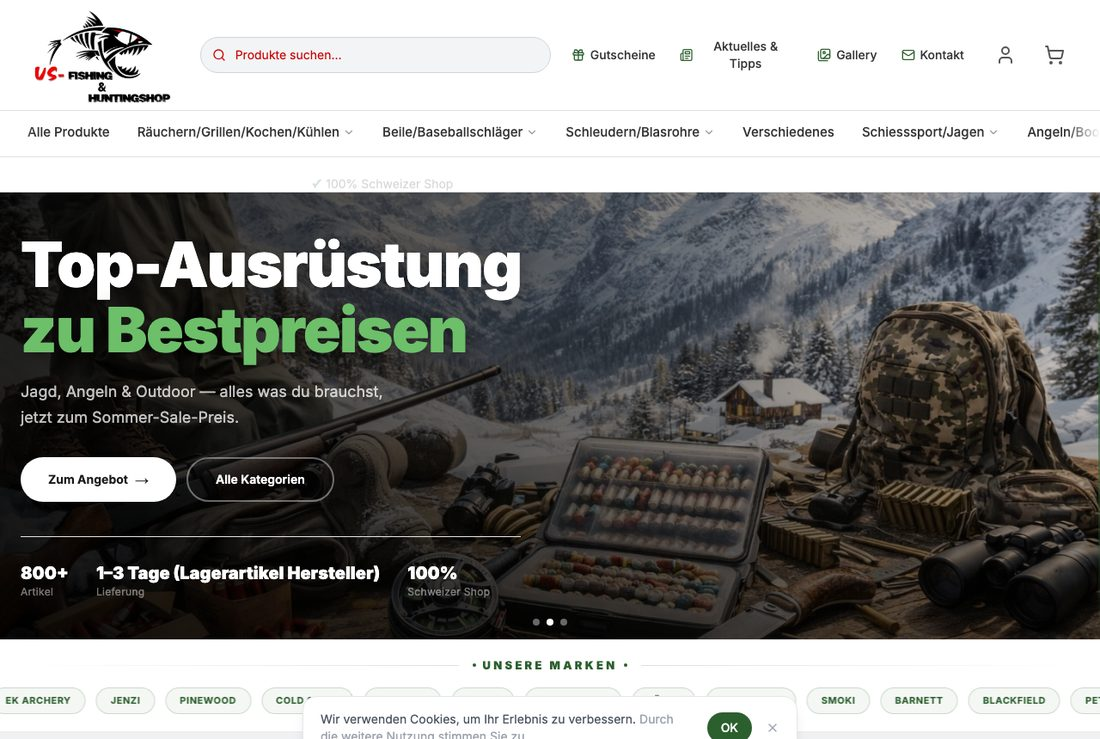
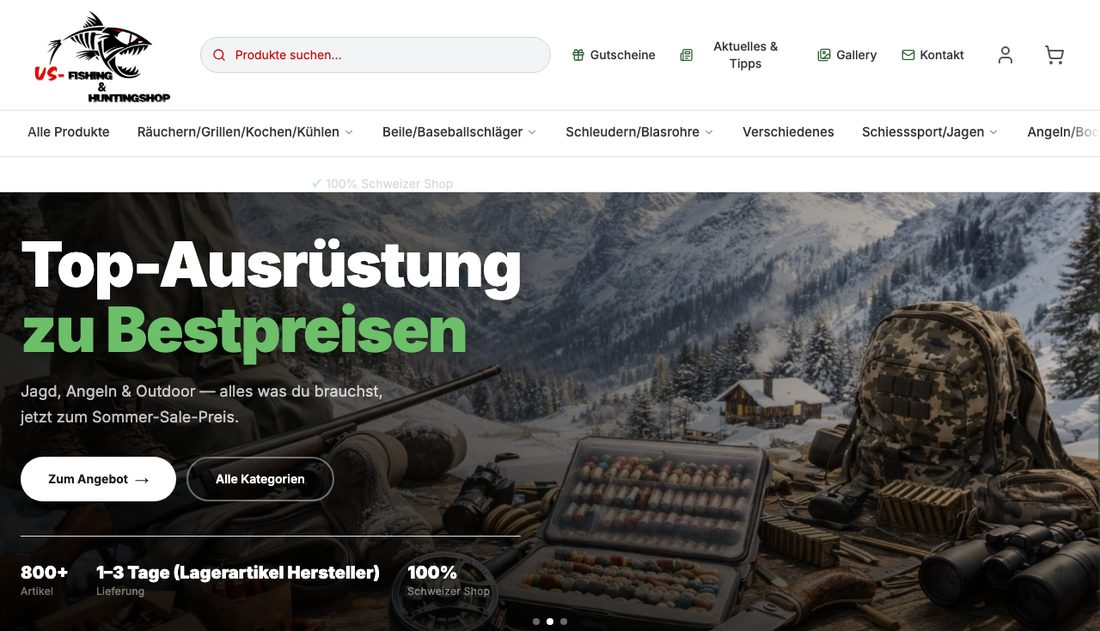
Antes y despues, con la Cantina
La web del restaurante en 2017 al lado de la de hoy: misma casa, mismo
lema, y la vieja media 1050 px — en el movil habia que hacer zoom. Es el
bloque que mas convence a quien llega desde un correo diciendole que su
web es de otra epoca, porque es una prueba y no una promesa.

La vista antigua sale del archivo de internet y se dice debajo, junto
con que alli no se conservan todas las fotos de entonces.

El caso de Urs queda dentro del mismo bloque pero escondido («oculto»)
hasta que el lo apruebe.

Claude-Session: https://claude.ai/code/session_01XynzHpEQP5dsWJy2TRCijA

diff --git a/js/translations.js b/js/translations.js
@@ -1,5 +1,8 @@
 var translations = {
     de: {
+        'vn.desc2': 'Cantina Tex-Mex in Bad Ragaz: links die Website von 2017, rechts dieselbe Cantina heute. Gleiches Restaurant, gleicher Slogan — nur dass die neue Seite auch auf dem Handy funktioniert, und genau dort suchen die Leute ein Restaurant.',
+        'vn.before2': '2017',
+        'vn.note2': 'Die alte Seite war 1050 Pixel breit — auf dem Handy musste man zoomen und seitlich schieben. Der Spruch von damals, «Lust auf Tex-Mex?», steht heute gross über dem Foto des Lokals. Alte Ansicht aus dem Internet-Archiv; einzelne Bilder von damals sind dort nicht erhalten.',
         'vn.eyebrow': 'Vorher / Nachher',
         'vn.title': 'Dieselbe Firma, dieselbe Adresse — <span style="color:var(--begonia400)">neu gebaut</span>',
         'vn.desc': 'US-Fishing & Huntingshop in Sevelen: oben der Shop, wie er 2021 aussah, unten derselbe Shop heute. Gleiche Produkte, gleicher Name — nur übersichtlicher, schneller und auf dem Handy wirklich benutzbar.',
@@ -1082,6 +1085,9 @@ var translations = {
         'lp.tag1': 'Neu online',
     },
     en: {
+        'vn.desc2': 'Cantina Tex-Mex in Bad Ragaz: on the left the website from 2017, on the right the same Cantina today. Same restaurant, same slogan — except the new site also works on a phone, which is exactly where people look for somewhere to eat.',
+        'vn.before2': '2017',
+        'vn.note2': 'The old site was 1050 pixels wide — on a phone you had to zoom and drag sideways. The line from back then, "Lust auf Tex-Mex?", is now the big headline over the photo of the restaurant. Old view from the Internet Archive; some images from that time are not kept there.',
         'vn.eyebrow': 'Before / After',
         'vn.title': 'Same company, same address — <span style="color:var(--begonia400)">rebuilt</span>',
         'vn.desc': 'US-Fishing & Huntingshop in Sevelen: above, the shop as it looked in 2021; below, the same shop today. Same products, same name — just clearer, faster and genuinely usable on a phone.',
@@ -2275,6 +2281,9 @@ var translations = {
         'lp.tag1': 'New online',
     },
     es: {
+        'vn.desc2': 'Cantina Tex-Mex en Bad Ragaz: a la izquierda la web de 2017, a la derecha la misma Cantina hoy. El mismo restaurante y el mismo lema — solo que la nueva también funciona en el móvil, que es justo donde la gente busca dónde comer.',
+        'vn.before2': '2017',
+        'vn.note2': 'La web vieja medía 1050 píxeles de ancho: en el móvil había que hacer zoom y arrastrar de lado. La frase de entonces, «Lust auf Tex-Mex?», es hoy el rótulo grande sobre la foto del local. Vista antigua del archivo de internet; algunas imágenes de entonces no se conservan allí.',
         'vn.eyebrow': 'Antes / Después',
         'vn.title': 'La misma empresa, la misma dirección — <span style="color:var(--begonia400)">hecha de nuevo</span>',
         'vn.desc': 'US-Fishing & Huntingshop en Sevelen: arriba, la tienda como era en 2021; abajo, la misma tienda hoy. Los mismos productos y el mismo nombre — solo que más clara, más rápida y usable de verdad en el móvil.',
@@ -3468,6 +3477,9 @@ var translations = {
         'lp.tag1': 'Nuevo online',
     },
     fr: {
+        'vn.desc2': 'Cantina Tex-Mex à Bad Ragaz : à gauche le site de 2017, à droite la même Cantina aujourd\'hui. Même restaurant, même slogan — sauf que le nouveau site fonctionne aussi sur le téléphone, et c\'est justement là que les gens cherchent où manger.',
+        'vn.before2': '2017',
+        'vn.note2': 'L\'ancien site faisait 1050 pixels de large : sur le téléphone, il fallait zoomer et glisser sur le côté. La phrase de l\'époque, « Lust auf Tex-Mex ? », est aujourd\'hui le grand titre sur la photo du restaurant. Vue ancienne tirée des archives du web ; certaines images de l\'époque n\'y sont pas conservées.',
         'vn.eyebrow': 'Avant / Après',
         'vn.title': 'La même entreprise, la même adresse — <span style="color:var(--begonia400)">reconstruite</span>',
         'vn.desc': 'US-Fishing & Huntingshop à Sevelen : en haut, la boutique telle qu\'elle était en 2021 ; en bas, la même boutique aujourd\'hui. Mêmes produits, même nom — simplement plus claire, plus rapide et vraiment utilisable sur le téléphone.',
@@ -4661,6 +4673,9 @@ var translations = {
         'lp.tag1': 'Nouveau en ligne',
     },
     it: {
+        'vn.desc2': 'Cantina Tex-Mex a Bad Ragaz: a sinistra il sito del 2017, a destra la stessa Cantina oggi. Stesso ristorante, stesso slogan — solo che il sito nuovo funziona anche dal telefono, ed è proprio lì che la gente cerca dove mangiare.',
+        'vn.before2': '2017',
+        'vn.note2': 'Il vecchio sito era largo 1050 pixel: dal telefono bisognava ingrandire e trascinare di lato. La frase di allora, «Lust auf Tex-Mex?», oggi è il titolo grande sopra la foto del locale. Vista vecchia dall\'archivio di internet; alcune immagini di allora non sono conservate.',
         'vn.eyebrow': 'Prima / Dopo',
         'vn.title': 'Stessa ditta, stesso indirizzo — <span style="color:var(--begonia400)">ricostruito</span>',
         'vn.desc': 'US-Fishing & Huntingshop a Sevelen: sopra il negozio com\'era nel 2021, sotto lo stesso negozio oggi. Stessi prodotti, stesso nome — solo più chiaro, più veloce e davvero usabile dal telefono.',

diff --git a/index.html b/index.html
@@ -1818,31 +1818,48 @@ body.dark-mode .ia-url{color:rgba(238,241,246,.75);box-shadow:0 0 0 1px rgba(255
      Urs ya dijo de palabra que se puede usar su web como ejemplo; falta
      pedirselo bien cuando le pida la reseña de Google.
 
-     *** OJO · 19/10/2026 ***
-     Ahora mismo esta ENCENDIDO, pero solo para verlo en local.
-     ANTES DE PUBLICAR hay que volver a ponerle  style="display:none;"
-     a la linea de abajo, y no quitarselo hasta que Urs diga que si.
+     *** COMO ESTA (19/10/2026) ***
+     El bloque se ve, pero con el ejemplo de LA CANTINA, que es de casa.
+     El par de URS esta dentro, escondido con la clase «oculto»: en cuanto
+     el diga que si, se le quita esa clase y aparecen los dos ejemplos.
      ========================================================================= -->
-<section class="section vn-section" id="vorher-nachher" style="display:none;scroll-margin-top:90px;">
+<section class="section vn-section" id="vorher-nachher" style="scroll-margin-top:90px;">
     <div class="container">
         <div class="section-header">
             <span class="vn-kick" data-i18n="vn.eyebrow">Vorher / Nachher</span>
             <h2 data-i18n-html="vn.title">Dieselbe Firma, dieselbe Adresse &mdash; <span style="color:var(--begonia400)">neu gebaut</span></h2>
-            <p data-i18n="vn.desc">US-Fishing &amp; Huntingshop in Sevelen: oben der Shop, wie er 2021 aussah, unten derselbe Shop heute. Gleiche Produkte, gleicher Name — nur übersichtlicher, schneller und auf dem Handy wirklich benutzbar.</p>
+            <p data-i18n="vn.desc2">Cantina Tex-Mex in Bad Ragaz: links die Website von 2017, rechts dieselbe Cantina heute. Gleiches Restaurant, gleicher Slogan — nur dass die neue Seite auch auf dem Handy funktioniert, und genau dort suchen die Leute ein Restaurant.</p>
         </div>
 
+        <!-- La Cantina. Roberto es el encargado del restaurante, asi que de
+             este ejemplo no hay que pedirle permiso a nadie. -->
         <div class="vn">
             <figure class="vn-card">
-                <span class="vn-tag vn-tag--alt" data-i18n="vn.before">2021</span>
-                <img src="img/vorher-nachher/usfh-vorher.jpg" alt="US-Fishing &amp; Huntingshop, 2021" loading="lazy" decoding="async" width="1100" height="739">
+                <span class="vn-tag vn-tag--alt" data-i18n="vn.before2">2017</span>
+                <img src="img/vorher-nachher/cantina-vorher.jpg" alt="Cantina Tex-Mex, 2017" loading="lazy" decoding="async" width="1100" height="631">
             </figure>
             <figure class="vn-card">
                 <span class="vn-tag" data-i18n="vn.after">Heute</span>
-                <img src="img/vorher-nachher/usfh-nachher.jpg" alt="US-Fishing &amp; Huntingshop, heute" loading="lazy" decoding="async" width="1100" height="739">
+                <img src="img/vorher-nachher/cantina-nachher.jpg" alt="Cantina Tex-Mex, heute" loading="lazy" decoding="async" width="1100" height="631">
             </figure>
         </div>
+        <p class="vn-note" data-i18n="vn.note2">Die alte Seite war 1050 Pixel breit — auf dem Handy musste man zoomen und seitlich schieben. Der Spruch von damals, «Lust auf Tex-Mex?», steht heute gross über dem Foto des Lokals. Alte Ansicht aus dem Internet-Archiv; einzelne Bilder von damals sind dort nicht erhalten.</p>
 
-        <p class="vn-note" data-i18n="vn.note">Der Shop läuft weiter wie vorher — Urs verwaltet seine über 800 Artikel selbst, und neue Funktionen kommen dazu, wenn er sie braucht.</p>
+        <!-- US-Fishing & Huntingshop · ESCONDIDO hasta que Urs diga que si.
+             Para encenderlo: quitar la clase «oculto» de este div. -->
+        <div class="vn-caso oculto">
+            <div class="vn">
+                <figure class="vn-card">
+                    <span class="vn-tag vn-tag--alt" data-i18n="vn.before">2021</span>
+                    <img src="img/vorher-nachher/usfh-vorher.jpg" alt="US-Fishing &amp; Huntingshop, 2021" loading="lazy" decoding="async" width="1100" height="631">
+                </figure>
+                <figure class="vn-card">
+                    <span class="vn-tag" data-i18n="vn.after">Heute</span>
+                    <img src="img/vorher-nachher/usfh-nachher.jpg" alt="US-Fishing &amp; Huntingshop, heute" loading="lazy" decoding="async" width="1100" height="631">
+                </figure>
+            </div>
+            <p class="vn-note" data-i18n="vn.note">Der Shop läuft weiter wie vorher — Urs verwaltet seine über 800 Artikel selbst, und neue Funktionen kommen dazu, wenn er sie braucht.</p>
+        </div>
     </div>
 </section>
 
@@ -1858,6 +1875,8 @@ body.dark-mode .vn-card{border-color:#1e2d3d;background:#141d2b;}
   font-size:12px;font-weight:700;letter-spacing:.06em;background:var(--begonia400);color:#fff;
   box-shadow:0 6px 18px rgba(0,0,0,.18);}
 .vn-tag--alt{background:rgba(15,29,44,.86);}
+.vn-caso{margin-top:34px;}
+.vn-caso.oculto{display:none;}
 .vn-note{max-width:62ch;margin:18px auto 0;text-align:center;
   font:500 15px/1.65 'Plus Jakarta Sans',system-ui,sans-serif;color:var(--gunpowder400);}
 @media(min-width:820px){.vn{grid-template-columns:1fr 1fr;gap:16px;}}
